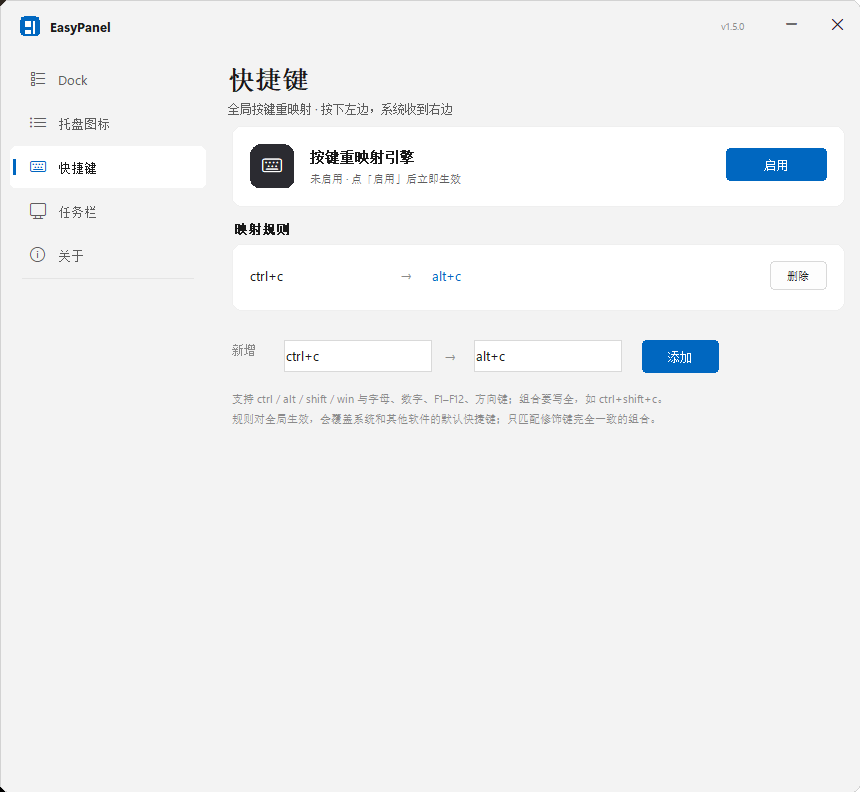
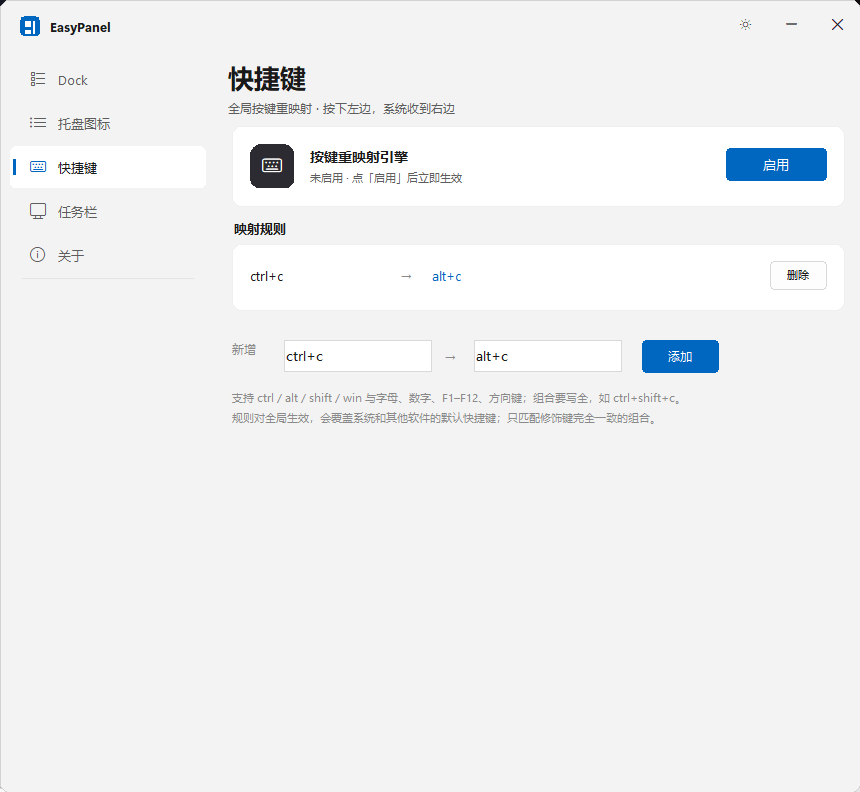
字体按语言分离，新增深色模式
- 中文 Microsoft YaHei UI（笔画饱满），纯英文/数字 Segoe UI，英文大标题 Segoe UI Variable Display
- font_for() 按字符串是否含 CJK 自动选字体，覆盖 label / 按钮 / 步进器 / 分段控件 / 导航 / 应用行
- 深色调色板：底 #202020、卡片 #2B2B2B、强调 #4CC2FF，玻璃蒙层同步变深
- 标题栏加主题切换按钮，整窗重建；选择存 panel.json
- 硬编码的白色（步进器底、分段选中块、图标占位）全部改走调色板
- 去掉标题栏版本号（被主题按钮遮挡，关于页已有）
- 版本 1.6.0

diff --git a/README.md b/README.md
@@ -23,10 +23,24 @@ Windows 小工具集：绿色免安装、纯本地运行、只改当前用户设
 
 窗口底同样是磨砂玻璃（Seelen 那种浮岛感），白色卡片浮在上面；玻璃烘焙失败时自动退回纯色底，不影响使用。
 
-字体和图标也用 Windows 11 自带的那一套，不是模拟：正文 **Segoe UI Variable Text**、
-标题 **Segoe UI Variable Display**（中文自动回退微软雅黑）、图标 **Segoe Fluent Icons**
-（导航、开关、行内按钮全是真字形，不是手绘几何）。全部用 tkinter 的 Canvas 自绘，
+字体按语言分开挑，不搞"一套字体包打天下"：
+
+| 用途 | 字体 |
+| --- | --- |
+| 中文正文 / 标题 | **Microsoft YaHei UI**（笔画饱满，长时间看不累） |
+| 纯英文、数字 | **Segoe UI**（比雅黑自带的西文干净得多） |
+| 英文大标题 | **Segoe UI Variable Display** |
+| 图标 | **Segoe Fluent Icons**（导航、开关、行内按钮全是真字形，不是手绘几何） |
+
+判据是字符串里有没有中日韩字符：`font_for()` 自动选。全部用 tkinter 的 Canvas 自绘，
 没有引入 WinUI 或任何第三方库。
+
+### 深色 / 浅色
+
+标题栏右上角的太阳按钮切换，整窗重绘一次（卡片、导航、文字、玻璃蒙层都跟着变）。
+选择写在 `panel.json` 里，下次打开还是这个模式。
+
+![深色模式](assets/panel-dark.png)
 
 | 页面 | 能做什么 |
 | --- | --- |
